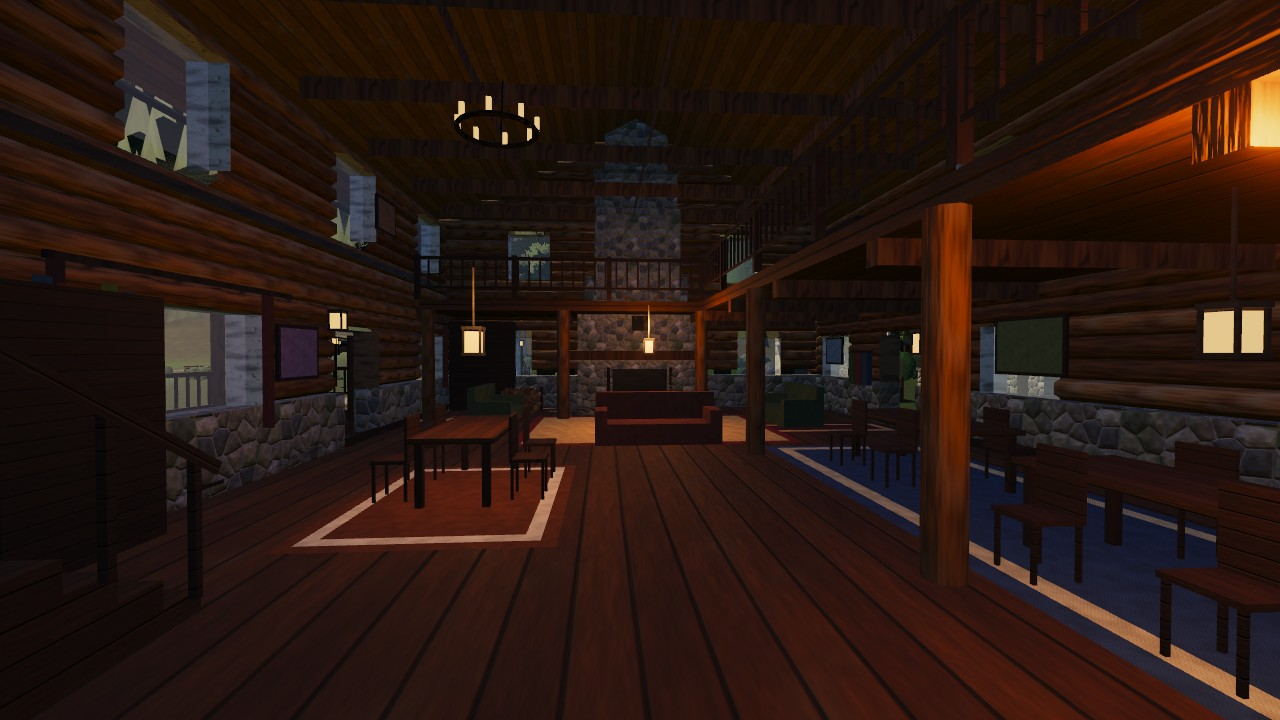
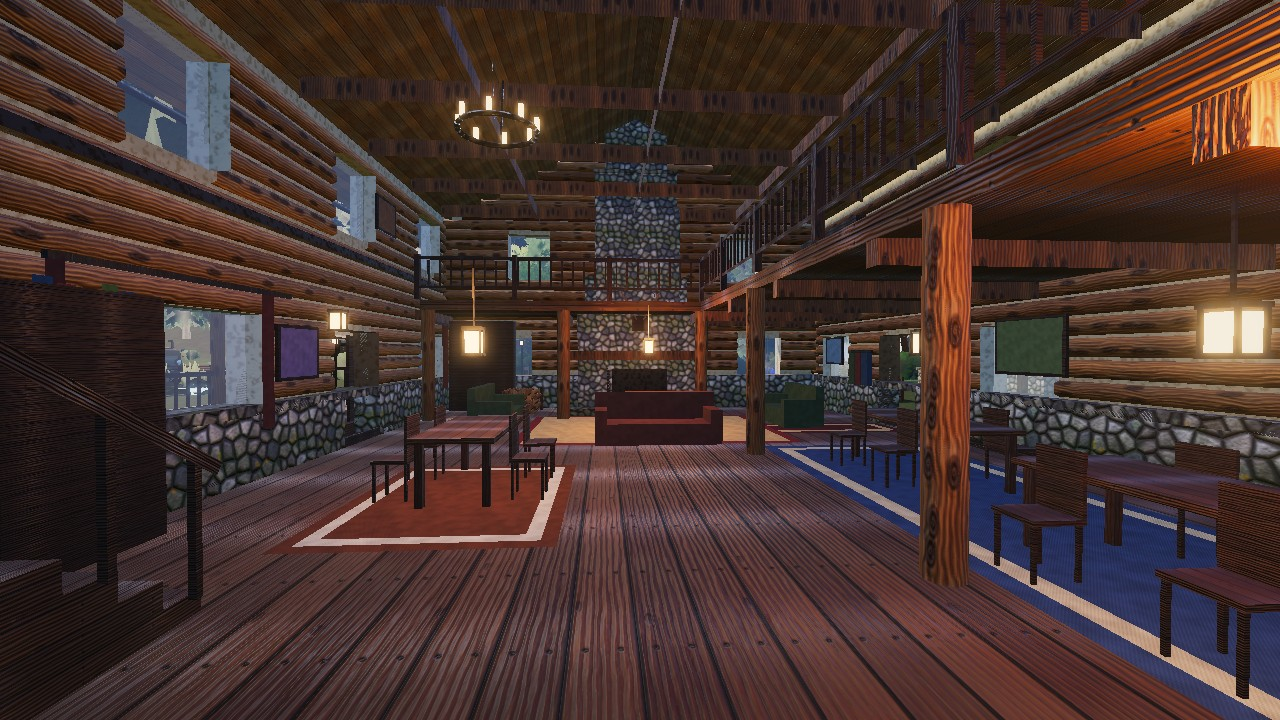
Polish Cedar Lodge in game: plant scatter, paint, pond stones, grass budget
- lodge_scatter.js: seeded reeds and cattails on the shore and pond rim,
  lupine and fireweed in meadows, clover and blueberry under trees, mossy
  rocks and maples among the birches (about 250 instances).
- paint.js: smooth the blotchy vehicle and bus paint.
- Pond coping AO, bush tint, bark and gravel brightness tuned.
- Grass budget rebalanced: medium about 3.4k blades, ultra 29k (was 61k).
- Medium: 56-73 draw calls across the map (was 371).

diff --git a/src/maps/lodge_scatter.js b/src/maps/lodge_scatter.js
@@ -1,0 +1,103 @@
+// Extra vegetation for Cedar Lodge (the exported data only uses the old plant kinds):
+// reeds and cattails on the shore and pond rim, lupine / fireweed in the meadows, clover and
+// blueberry under trees, a few mossy rocks and maples among the birches. Fixed seed, so it is
+// identical every run. Everything respects the grass mask, buildings, props, spawns, buses and the pond.
+import { RNG } from '../core/util.js';
+import { pondRadius, inPond, POND } from '../world/pond_shape.js';
+
+const BUSES = { x0: -29.5, z0: 23.5, x1: -10.5, z1: 43.5 };   // the bus yard (lodge.js zone, plus a margin)
+
+function decodeMask(g) {
+  const bin = atob(g.data), u8 = new Uint8Array(bin.length);
+  for (let i = 0; i < bin.length; i++) u8[i] = bin.charCodeAt(i);
+  const step = g.size / (g.n - 1);
+  return (x, z) => {
+    const i = Math.round((x - g.x0) / step), j = Math.round((z - g.z0) / step);
+    return i < 0 || j < 0 || i >= g.n || j >= g.n ? 0 : u8[j * g.n + i];
+  };
+}
+
+/** @returns {{bushes:number[][], trees:number[][]}} extra entries to append to the foliage lists */
+export function scatterPlants(D, groundAt, world) {
+  const rng = new RNG(0xced4a1);
+  const grass = decodeMask(D.foliage.grass);
+  const b = D.bounds, wy = D.water.y;
+  const bushes = [], trees = [];
+  const q = [];
+  const baseTrees = D.foliage.trees;
+
+  const nearSpawn = (x, z) => D.spawns.some((t) => t.some((s) => Math.hypot(s[0] - x, s[1] - z) < 5));
+  const nearBuses = (x, z, m = 0) => x > BUSES.x0 - m && x < BUSES.x1 + m && z > BUSES.z0 - m && z < BUSES.z1 + m;
+  // free of buildings, props and trunks (anything solid taller than a step)
+  const blocked = (x, z, r) => {
+    world.query(x - r, z - r, x + r, z + r, q);
+    for (const i of q) if ((world.flags[i] & 1) && world.maxY[i] > groundAt(x, z) + 0.25) return true;
+    return false;
+  };
+  const dry = (x, z) => groundAt(x, z) > wy + 0.35;
+  const inArea = (x, z) => x > b.x0 + 2 && x < b.x1 - 2 && z > b.z0 + 4 && z < b.z1 - 3;
+  const ok = (x, z, r = 0.8, mask = 110) => inArea(x, z) && dry(x, z) && grass(x, z) > mask && !inPond(x, z, -1.6) && !nearBuses(x, z, 1.5) && !nearSpawn(x, z) && !blocked(x, z, r);
+  const put = (list, x, z, s, kind) => list.push([x, groundAt(x, z), z, s, rng.range(0, 6.283), kind]);
+  const clump = (kind, cx, cz, n, spread, s0, s1, mask) => {
+    for (let k = 0; k < n; k++) {
+      const a = rng.range(0, 6.283), r = Math.sqrt(rng.next()) * spread;
+      const x = cx + Math.cos(a) * r, z = cz + Math.sin(a) * r;
+      if (ok(x, z, 0.6, mask)) put(bushes, x, z, rng.range(s0, s1), kind);
+    }
+  };
+
+  // -- reeds and cattails along the lake shore: where the ground is just above to a little under the water line
+  for (let i = 0; i < 520 && bushes.length < 160; i++) {
+    const x = rng.range(b.x0 + 3, b.x1 - 3), z = rng.range(-56, -44);
+    const g = groundAt(x, z);
+    if (g < wy - 0.3 || g > wy + 0.3) continue;
+    if (x > -25 && x < -13 && z < -41) continue;   // keep the dock clear
+    if (blocked(x, z, 0.5)) continue;
+    put(bushes, x, z, rng.range(0.8, 1.35), rng.chance(0.35) ? 'cattail' : 'reed');
+  }
+  const shoreCount = bushes.length;
+  // -- the pond rim, dry side only
+  for (let k = 0; k < 9; k++) {
+    const th = rng.range(0, 6.283), r = pondRadius(th) + rng.range(0.55, 1.1);
+    const x = POND.x + Math.sin(th) * r, z = POND.z + Math.cos(th) * r;
+    if (nearBuses(x, z, 0.5) || blocked(x, z, 0.4)) continue;
+    put(bushes, x, z, rng.range(0.6, 0.95), rng.chance(0.4) ? 'cattail' : 'reed');
+  }
+  // -- open meadow: lupine and fireweed in clumps (away from the buildings' yard)
+  for (const [kind, clumps] of [['lupine', 11], ['fireweed', 9]]) {
+    for (let c = 0, tries = 0; c < clumps && tries < 400; tries++) {
+      const cx = rng.range(b.x0 + 6, b.x1 - 6), cz = rng.range(-36, 60);
+      if (Math.hypot(cx, cz) < 17 || !ok(cx, cz, 1.2, 200)) continue;   // not around the lodge itself
+      clump(kind, cx, cz, 6, 2.6, 0.8, 1.2, 160);
+      c++;
+    }
+  }
+  // -- under the trees: clover and blueberry
+  const forest = baseTrees.filter((t) => Math.abs(t[0]) < b.x1 + 4 && t[2] > -50 && t[2] < b.z1 + 4);
+  for (let c = 0, tries = 0; c < 22 && tries < 300; tries++) {
+    const t = forest[Math.floor(rng.next() * forest.length)];
+    const a = rng.range(0, 6.283), r = rng.range(1.8, 4);
+    const x = t[0] + Math.cos(a) * r, z = t[2] + Math.sin(a) * r;
+    if (!ok(x, z, 0.8, 90)) continue;
+    if (c % 2) clump('blueberry', x, z, 3, 1.4, 0.8, 1.15, 90); else clump('clover', x, z, 5, 1.8, 0.9, 1.3, 90);
+    c++;
+  }
+  // -- mossy rocks
+  for (let c = 0, tries = 0; c < 14 && tries < 400; tries++) {
+    const x = rng.range(b.x0 + 4, b.x1 - 4), z = rng.range(-40, 60);
+    if (Math.hypot(x, z) < 15 || !ok(x, z, 1.2, 120)) continue;
+    put(bushes, x, z, rng.range(0.7, 1.5), 'rock');
+    c++;
+  }
+  // -- maples among the birches
+  const birches = baseTrees.filter((t) => t[5] === 'birch');
+  for (let c = 0, tries = 0; c < 12 && tries < 200 && birches.length; tries++) {
+    const t = birches[Math.floor(rng.next() * birches.length)];
+    const a = rng.range(0, 6.283), r = rng.range(3.5, 6);
+    const x = t[0] + Math.cos(a) * r, z = t[2] + Math.sin(a) * r;
+    if (!ok(x, z, 1.1, 90) || trees.some((m) => Math.hypot(m[0] - x, m[2] - z) < 5)) continue;
+    put(trees, x, z, rng.range(0.9, 1.25), 'maple');
+    c++;
+  }
+  return { bushes, trees, shoreCount };
+}

diff --git a/src/maps/lodge.js b/src/maps/lodge.js
@@ -5,6 +5,8 @@ import { GLTFLoader } from 'three/examples/jsm/loaders/GLTFLoader.js';
 import { LODGE_GLB, LODGE_DATA as D } from './lodge_asset.js';
 import { buildFoliage } from '../world/foliage.js';
 import { createWater } from '../world/water.js';
+import { smoothPaint } from '../world/paint.js';
+import { scatterPlants } from './lodge_scatter.js';
 import { buildGridNav } from '../world/gridnav.js';
 import { applyTerrainSplat, testTerrainLayers } from '../world/terrain.js';
 import { applyMountainShader } from '../world/mountain.js';
@@ -88,6 +90,10 @@ function prepareMaterial(m, glass, matName) {
       m.roughness = 0.82;
     } else if (name.includes('stone') || name.includes('rock')) {
       m.envMapIntensity = 0.9;
+    } else if (name.includes('paint')) {
+      m.envMapIntensity = 1.3;
+      smoothPaint(m, 0.85);
+      m.normalScale.multiplyScalar(0.4);   // the grunge normals read as camouflage too
     } else if (name.includes('glow')) {
       m.emissiveIntensity = 2.8;
     } else {
@@ -169,7 +175,8 @@ export async function buildLodge(onProgress = () => {}) {
   // -- foliage ---------------------------------------------------------------
   // nothing grows in the pond: drop trees and bushes inside its rim (grass via the exclude test)
   const dry = (list) => (list || []).filter((t) => !inPond(t[0], t[2], -0.6));
-  const plants = { ...D.foliage, trees: dry(D.foliage.trees), bushes: dry(D.foliage.bushes) };
+  const extra = scatterPlants(D, groundAt, world);   // reeds, lupine, clover, maples ... (fixed seed)
+  const plants = { ...D.foliage, trees: dry(D.foliage.trees).concat(extra.trees), bushes: dry(D.foliage.bushes).concat(extra.bushes) };
   const foliage = await buildFoliage({ foliage: plants, heightAt: groundAt, quality: 'medium', exclude: (x, z) => inPond(x, z, -0.4) });
   for (const c of foliage.colliders) world.addBox(c[0], c[1], c[2], c[3], c[4], c[5], c[6], c[7]);
   // foliage reacts to sun / hemi like everything else (no extra self-lit glow). Its colours come
@@ -178,6 +185,11 @@ export async function buildLodge(onProgress = () => {}) {
   foliage.group.traverse((o) => {
     const m = o.material;
     if (m && m.userData && m.userData.uniforms && m.userData.uniforms.uSelfLit) m.userData.uniforms.uSelfLit.value = 0;
+    if (!o.isMesh) return;
+    // bush leaves have a material of their own: calm the bright green to olive. Bark is shared by all
+    // trees: a slight dim keeps the white birch trunks from clipping in the sun.
+    if (/^bush\d.*leaf/.test(o.name)) m.color.set(0xa4ad7c);
+    else if (/_bark$/.test(o.name)) m.color.set(0xa8a8a8);
   });
 
   // -- school buses & koi pond ----------------------------------------------

diff --git a/src/world/foliage.js b/src/world/foliage.js
@@ -23,10 +23,11 @@ const TIME_WRAP = 20 * Math.PI; // wind frequencies are multiples of 0.1 so the 
 
 /** Per-quality settings. dist/lod0 are metres at drawScale 1; grass is the radius around the camera. */
 const QUALITY = {
-  low: { dist: 70, lod0: 20, grass: 18, spacing: 0.78, shadow: false },
-  medium: { dist: 100, lod0: 28, grass: 30, spacing: 0.62, shadow: false },
-  high: { dist: 135, lod0: 36, grass: 44, spacing: 0.48, shadow: true },
-  ultra: { dist: 175, lod0: 48, grass: 56, spacing: 0.40, shadow: true },
+  // grass blades ~ pi * grass^2 / spacing^2: low 0.8k, medium 3.4k, high 13k, ultra 29k
+  low: { dist: 70, lod0: 20, grass: 14, spacing: 0.86, shadow: false },
+  medium: { dist: 100, lod0: 28, grass: 24, spacing: 0.72, shadow: false },
+  high: { dist: 135, lod0: 36, grass: 36, spacing: 0.54, shadow: true },
+  ultra: { dist: 175, lod0: 48, grass: 46, spacing: 0.46, shadow: true },
 };
 
 /** Draw / LOD0 distance multipliers per model class. */

diff --git a/src/world/paint.js b/src/world/paint.js
@@ -1,0 +1,16 @@
+// Car / bus paint: the baked albedo has strong dirt blotches that read as camouflage at game distances.
+// Blend it toward a blurred sample of itself (texture bias picks a coarse mip) so the colour stays, the speckle goes.
+export function smoothPaint(m, blur = 0.62) {
+  if (!m.map || m.userData.smoothPaint) return;
+  m.userData.smoothPaint = true;
+  m.customProgramCacheKey = () => `paint-smooth-${blur}`;
+  m.onBeforeCompile = (shader) => {
+    shader.fragmentShader = shader.fragmentShader.replace('#include <map_fragment>', `
+      #ifdef USE_MAP
+        vec4 pSharp = texture2D(map, vMapUv);
+        vec4 pSoft = texture2D(map, vMapUv, 5.0);
+        diffuseColor *= mix(pSharp, pSoft, ${blur.toFixed(2)});
+      #endif`);
+  };
+  m.needsUpdate = true;
+}

diff --git a/src/world/school_bus.js b/src/world/school_bus.js
@@ -3,6 +3,7 @@
 // baked PBR atlas (albedo / normal / ORM) with road grime, sun fade, rust and dirt streaks.
 // bus_clean = lightly weathered; bus_old = dusty, rusty, two flat tyres and a sag (its own atlas, same UV layout).
 // Cost: 2 draw calls per bus (body atlas + glass), ~20k triangles each.
+import { smoothPaint } from './paint.js';
 import * as THREE from 'three';
 import { GLTFLoader } from 'three/examples/jsm/loaders/GLTFLoader.js';
 import { F_DEFAULT, S_METAL } from '../core/physics.js';
@@ -86,6 +87,7 @@ export function buildSchoolBuses(groundAt, world) {
           o.renderOrder = 2;
         } else {
           m.envMapIntensity = 1.0;
+          smoothPaint(m, 0.55);   // the baked paint dirt reads as blotches
         }
         owned.push(o);
       });

diff --git a/src/world/pond.js b/src/world/pond.js
@@ -193,6 +193,10 @@ export function createKoiPond({ x: cx = POND.x, z: cz = POND.z, groundAt, world 
       m.position.set(0, 0, 0);
       m.receiveShadow = true;
       m.castShadow = name === 'pond_rock';
+      // the exported factors are metalness 1 / roughness 1: with the ORM maps that made the stones black mirrors
+      m.material.metalness = 0;
+      // the baked AO channel of this ORM averages 0.13 (near black): that was the dark crescents round the rim
+      if (name === 'pond_rock') { m.material.aoMapIntensity = 0.2; m.material.color.setScalar(1.5); }
       owned.geos.push(m.geometry);
       if (name === 'pond_rock') {
         follow(m.geometry, () => 1);

diff --git a/src/world/terrain.js b/src/world/terrain.js
@@ -141,6 +141,7 @@ export async function applyTerrainSplat(mat, T) {
           vec4 bw = max(hb - (max(max(hb.x, hb.y), max(hb.z, hb.w)) - 0.2), 0.0);
           bw *= step(0.001, sw);
           bw /= (bw.x + bw.y + bw.z + bw.w + 1e-4);
+          a2 *= 0.78;   // gravel's white pebbles are the brightest thing in the scene
           vec3 detail = (a0 * bw.x + a1 * bw.y + a2 * bw.z + a3 * bw.w) * 0.88;
           // the baked colour stays as soft macro variation and ground AO
           vec3 macro = clamp(diffuseColor.rgb * 2.4, 0.35, 1.5);
